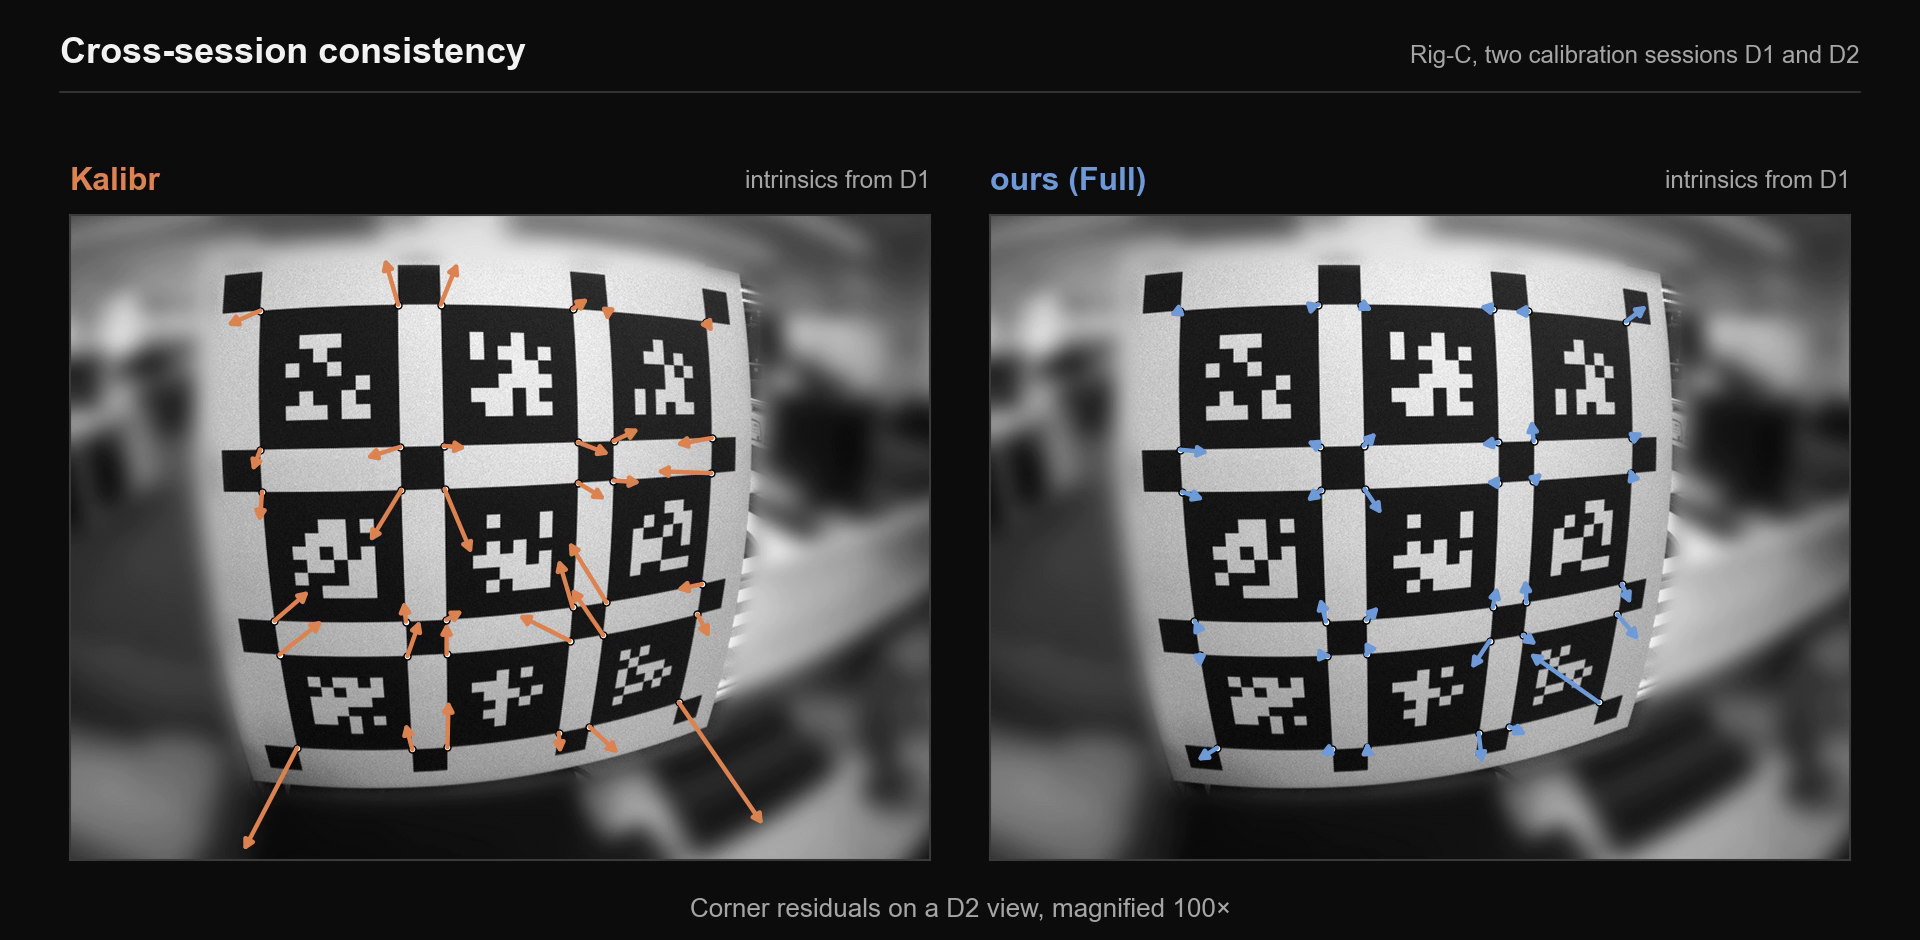
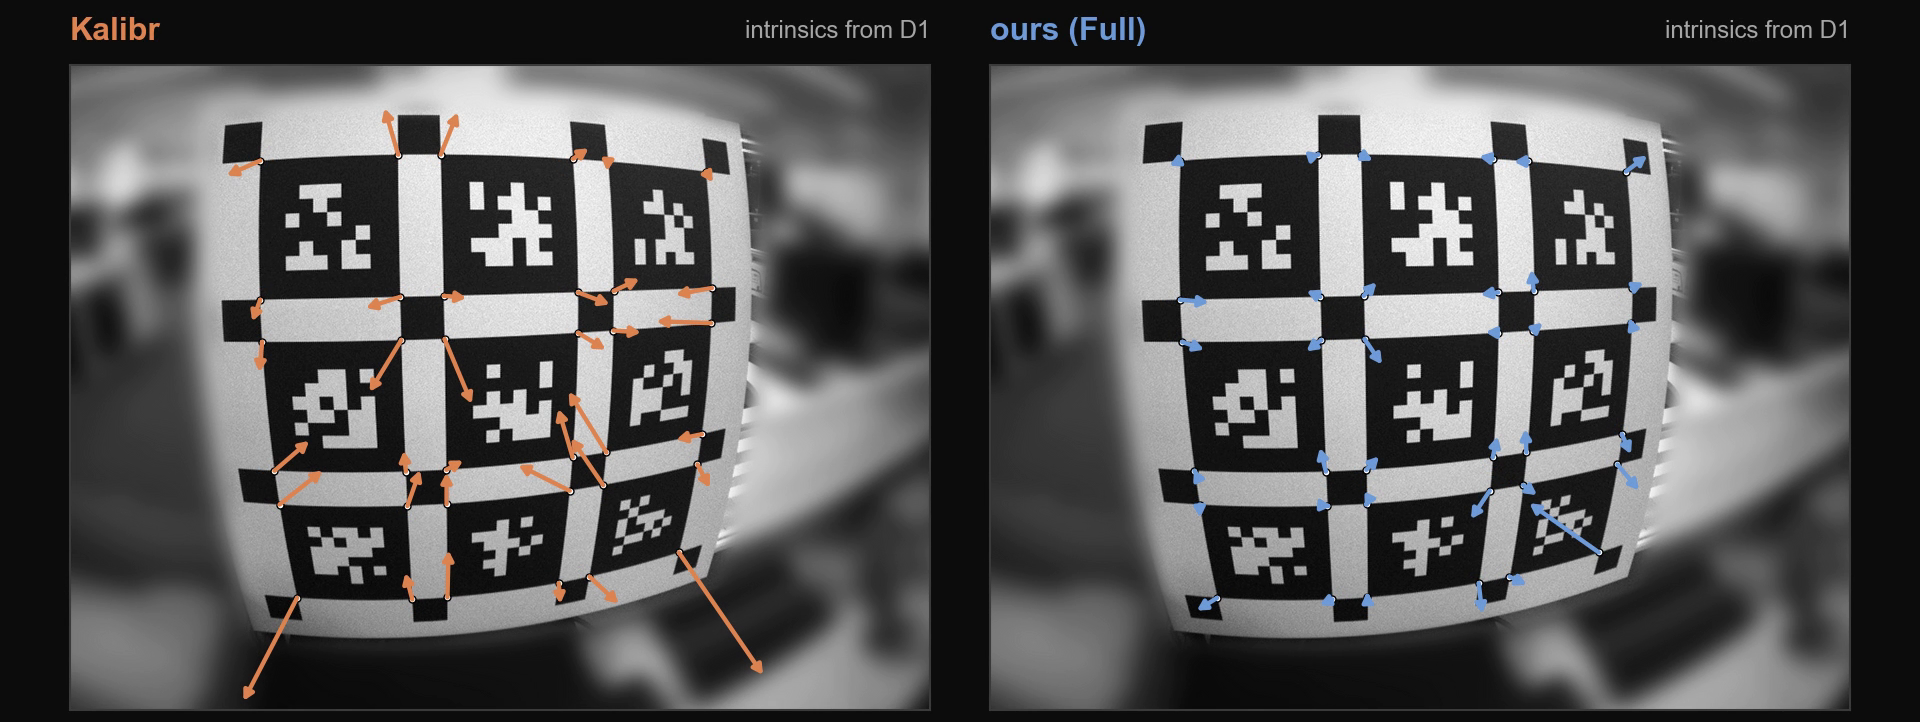
Add a Chinese README and shorten the dataset figure
Add README.zh.md with a language switch in both READMEs. Lay out Fig. 4 as
one row of two columns above its caption, remove the captions from the hero
image and the window title bar from the chessboard GIF.

diff --git a/README.zh.md b/README.zh.md
@@ -1,0 +1,171 @@
+<div align="center">
+
+<h1>Automatic Reproducible Camera Intrinsic Calibration</h1>
+
+<p><a href="https://github.com/JokerJohn"><b>Xiangcheng Hu</b></a></p>
+
+<p><a href="README.md">English</a> | <a href="README.zh.md"><b>中文</b></a></p>
+
+![IntrinsicCalib](./README/hero.png)
+
+<a href="https://arxiv.org/abs/2609.10082"><img src="https://img.shields.io/badge/arXiv-2609.10082-b31b1b" alt="arXiv"></a><a><img src="https://img.shields.io/badge/IEEE%20RA--P-Accepted-green" alt="RA-P"></a><a href="./README/intrinsic_calib_video.mp4"><img src="https://img.shields.io/badge/Video-Paper%20Video-blue" alt="Video"></a><a><img alt="PRs-Welcome" src="https://img.shields.io/badge/PRs-Welcome-white" /></a>[![GitHub Stars](https://img.shields.io/github/stars/JokerJohn/IntrinsicCalib.svg)](https://github.com/JokerJohn/IntrinsicCalib/stargazers)<a href="https://github.com/JokerJohn/IntrinsicCalib/network/members"><img alt="FORK" src="https://img.shields.io/github/forks/JokerJohn/IntrinsicCalib?color=white" /></a>[![GitHub Issues](https://img.shields.io/github/issues/JokerJohn/IntrinsicCalib.svg)](https://github.com/JokerJohn/IntrinsicCalib/issues)[![License](https://img.shields.io/badge/license-MIT-blue.svg)](./LICENSE)
+
+</div>
+
+## 简介
+
+相机内参标定的精度取决于所采集图像的质量，而现有基于标定板的方法通常要求使用者手动筛选高质量图像并指定径向畸变阶数。本文从采集数据中自动确定这两项输入。
+
+**核心思想：两项决策通过残差相互耦合。** 高阶模型会降低用于定义剔除阈值的残差尺度，而标定集残差无法验证新增系数。因此，图像剔除在每个候选阶数下独立执行，畸变阶数则在内参与畸变系数固定的条件下，由留出图像确定。
+
+- **内参标定方法。** 提出一种自动且无需人工干预的方法，迭代地选择高质量图像与畸变阶数，得到准确且可复现的内参。
+- **畸变阶数选择。** 提出一种选择准则，在内参与畸变系数固定的条件下于留出图像上评估各候选阶数，避免以标定集残差判断模型是否充分。
+- **交互式标定工具。** 开发面向棋盘格与 AprilGrid 标定板的开源工具，并在公开数据集和真实机器人上完成验证。
+
+| ![pipeline](./README/pipeline.png) | ![algorithm](./README/algorithm.png) |
+| ------------------------------------------------------------ | ------------------------------------------------------------ |
+
+## 动态
+
+- **2026/11**：论文被 IEEE Robotics and Automation Practice (RA-P) 接收。
+- **2026/10/11**：发布标定工具、数据与实验脚本。
+- **2026/09/09**：论文公开于 [arXiv](https://arxiv.org/abs/2609.10082)。
+
+## 视频
+
+<div align="center">
+
+<a href="./README/intrinsic_calib_video.mp4"><img src="./README/intrinsic_calib_video.gif" width="92%"></a>
+
+</div>
+
+点击图像播放完整视频（92 秒）。
+
+## 方法
+
+**图像选择。** Stage 1 仅接收提取器恢复出完整内角点网格的图像。Stage 2 迭代剔除平均残差超过中位数一定倍数的图像，并重新求解标定：
+
+<div align="center">
+
+$$
+\tau^{(t)} = \kappa\,\tilde{e}^{(t)}, \qquad
+\mathcal{I}^{(t+1)} = \lbrace\, i\in\mathcal{I}^{(t)} \mid \bar{e}_i^{(t)} \le \tau^{(t)} \,\rbrace
+$$
+
+</div>
+
+**畸变阶数选择。** 接收的图像集被划分为估计子集与验证子集 $\mathcal{V}$。各候选阶数在内部执行 Stage 2 完成估计，并在 $\mathcal{V}$ 上仅重新估计标定板位姿。当且仅当平均误差与最差视图误差均未变差时，采用 $\mathrm{M}_3$（在 $\mathrm{M}_2$ 的基础上增加 $k_3$）：
+
+<div align="center">
+
+$$
+\bar{e}_{\mathrm{v}}(\mathrm{M}_3) \le \alpha\,\bar{e}_{\mathrm{v}}(\mathrm{M}_2)
+\quad\text{and}\quad
+e^{\max}_{\mathrm{v}}(\mathrm{M}_3) \le \beta\,e^{\max}_{\mathrm{v}}(\mathrm{M}_2)
+$$
+
+</div>
+
+所有超参数在全部数据集上保持固定：$\kappa=2$，$\alpha=\beta=1$，$N_{\min}=15$，$N_{\mathrm{stop}}=8$，$T_{\max}=3$。
+
+**交互式工具。** 工具显示每幅图像的筛选状态与标定点分布，并记录每项决策。左：棋盘格数据（Rig-A，3 倍速播放）。右：AprilGrid 数据（Rig-C）。
+
+| <img src="./README/gif_tool_chessboard.gif"> | <img src="./README/gif_tool_aprilgrid.gif"> |
+| ------------------------------------------------------------ | ------------------------------------------------------------ |
+
+## 数据集
+
+<div align="center">
+
+| 数据集 | 相机 | 标定板 | 数据 |
+| ------ | ---- | ------ | ---- |
+| `Rig-A` | 1920 x 1080，111° | 棋盘格 11 x 8，45 mm | 39 幅图像 |
+| `Rig-B` | 同型号的第二台相机 | 棋盘格 11 x 8，45 mm | 64 幅图像 |
+| `Rig-C` | 手持双目 FLIR，1440 x 1080，113° | 3 x 3 AprilGrid | 标定会话 D1、D2；序列 S1、S2、S3 |
+| `Rig-D` | 轮式机器人，Rig-A 同型号相机 | 棋盘格 11 x 8，45 mm | 一条 163 秒序列 |
+| `Public` | OpenCalib、ROS、OpenCV | 棋盘格 | 五个会话 |
+
+<img src="./README/datasets.png" width="85%">
+
+</div>
+
+Rig-A 与 Rig-B 位于 `data/`。Rig-C 与 Rig-D 的 bag 可从[百度网盘](https://pan.baidu.com/s/1n3tDlzshlr6OiQmL6GJtyQ?pwd=vihg)下载（提取码 `vihg`），公开数据从其原始来源获取。[docs/DATA.md](./docs/DATA.md) 列出每项实验所用的数据。
+
+## 结果
+
+**图像与阶数选择。** 在 Rig-A 上，两个阶段将留出误差从 0.419 px 降至 0.316 px（25%）。$\mathrm{M}_3$ 进一步将留出均值降至 0.299 px，并将最差视图误差从 0.590 px 降至 0.554 px。
+
+| ![selection](./README/selection.png) | ![order](./README/order.png) |
+| ------------------------------------------------------------ | ------------------------------------------------------------ |
+
+**跨会话一致性。** 在 Rig-C 上，本方法在两台相机上均将 Kalibr 的跨会话误差降低 36% 至 50%。两天之间焦距变化小于 1.5 px，而 Kalibr 约为 7 px。
+
+| <img src="./README/gif_xsession.gif"> | ![tab_rigc](./README/tab_rigc.png) |
+| ------------------------------------------------------------ | ------------------------------------------------------------ |
+
+**公开数据与里程计。** 本方法在全部五个公开会话上取得最低的留出均值。使用 OpenVINS 时，本方法的内参在 Rig-C 的三条序列上均取得最低轨迹误差，并在 Rig-D 上取得最低的中位误差。
+
+| ![tab_public](./README/tab_public.png) | ![tab_vio](./README/tab_vio.png) |
+| ------------------------------------------------------------ | ------------------------------------------------------------ |
+
+## 快速开始
+
+实现基于 Python 3.10、OpenCV 4.13 与 PySide6，已在 Ubuntu 20.04 上测试。
+
+```bash
+git clone https://github.com/JokerJohn/IntrinsicCalib.git && cd IntrinsicCalib
+conda create -n intrinsic_calib python=3.10 && conda activate intrinsic_calib
+pip install -r requirements.txt
+sudo apt install g++ pkg-config libopencv-dev libeigen3-dev   # Kalibr 提取器，首次使用时编译
+
+python tool/run_intrinsics_gui.py data/rig_a                  # 交互式工具：先 Detect All，再 Calibrate
+python experiments/public/experiment/rap_headless.py data/rig_a --out rig_a.json   # 无界面运行
+```
+
+无界面运行的结果为：检测 39 幅，Stage 1 后 27 幅，最终 20 幅，选择 $\mathrm{M}_3$，保留图像上的误差为 0.143 px。[docs/REPRODUCE.md](./docs/REPRODUCE.md)（英文）说明 Python 接口、复现论文各表格的命令与测试。
+
+```
+tool/          标定包 intrinsic_calib 与启动脚本
+experiments/   public（Table I）、rigc（Table II）、vio（Table III）
+data/          Rig-A、Rig-B、Rig-C 的 Kalibr 文件、bag 清单
+tests/         Rig-A 选择、AprilGrid 提取与工具的测试
+```
+
+## 待办
+
+- [x] 发布标定工具与实验脚本
+- [x] 发布 Rig-A 至 Rig-D 数据
+- [ ] 增加有理模型与鱼眼模型候选
+- [ ] 增加覆盖度约束
+- [ ] 支持卷帘快门相机与事件相机
+
+## 引用
+
+```bibtex
+@article{hu2026intrinsiccalib,
+  title         = {Automatic Reproducible Camera Intrinsic Calibration},
+  author        = {Hu, Xiangcheng},
+  journal       = {IEEE Robotics and Automation Practice},
+  note          = {Accepted},
+  eprint        = {2609.10082},
+  archivePrefix = {arXiv},
+  primaryClass  = {cs.RO},
+  year          = {2026}
+}
+```
+
+相关工作：[P²Calib](https://github.com/JokerJohn/P2Calib) 与 [VeriCalib](https://github.com/JokerJohn/VeriCalib)。
+
+## 致谢
+
+工具使用了 [OpenCV](https://github.com/opencv/opencv) 与 [Kalibr](https://github.com/ethz-asl/kalibr) 的 `ethz_apriltag2` 解码器。评估使用了 [OpenCalib](https://github.com/PJLab-ADG/SensorsCalibration)、[ROS camera_calibration](http://wiki.ros.org/camera_calibration)、[mrcal](https://mrcal.secretsauce.net) 与 Kalibr 的数据和基线。里程计实验与真值使用了 [OpenVINS](https://github.com/rpng/open_vins)、[evo](https://github.com/MichaelGrupp/evo)、[FAST-LIO2](https://github.com/hku-mars/FAST_LIO)、[PALoc](https://github.com/JokerJohn/PALoc) 与 [Manual Loop Closure Tools](https://github.com/JokerJohn/Mannual-Loop-Closure-Tools)。
+
+## 许可证
+
+本项目基于 [MIT 许可证](./LICENSE)发布。`tool/intrinsic_calib/kalibr_extractor/third_party/` 包含 `ethz_apriltag2` 源码与 Kalibr 的标定板提取代码（BSD，[KALIBR_LICENSE](tool/intrinsic_calib/kalibr_extractor/third_party/KALIBR_LICENSE)）。公开数据沿用其来源的许可证。
+
+## 贡献者
+
+<a href="https://github.com/JokerJohn/IntrinsicCalib/graphs/contributors">
+  <img src="https://contrib.rocks/image?repo=JokerJohn/IntrinsicCalib" />
+</a>

diff --git a/README.md b/README.md
@@ -4,6 +4,8 @@
 
 <p><a href="https://github.com/JokerJohn"><b>Xiangcheng Hu</b></a></p>
 
+<p><a href="README.md"><b>English</b></a> | <a href="README.zh.md">中文</a></p>
+
 ![IntrinsicCalib](./README/hero.png)
 
 <a href="https://arxiv.org/abs/2609.10082"><img src="https://img.shields.io/badge/arXiv-2609.10082-b31b1b" alt="arXiv"></a><a><img src="https://img.shields.io/badge/IEEE%20RA--P-Accepted-green" alt="RA-P"></a><a href="./README/intrinsic_calib_video.mp4"><img src="https://img.shields.io/badge/Video-Paper%20Video-blue" alt="Video"></a><a><img alt="PRs-Welcome" src="https://img.shields.io/badge/PRs-Welcome-white" /></a>[![GitHub Stars](https://img.shields.io/github/stars/JokerJohn/IntrinsicCalib.svg)](https://github.com/JokerJohn/IntrinsicCalib/stargazers)<a href="https://github.com/JokerJohn/IntrinsicCalib/network/members"><img alt="FORK" src="https://img.shields.io/github/forks/JokerJohn/IntrinsicCalib?color=white" /></a>[![GitHub Issues](https://img.shields.io/github/issues/JokerJohn/IntrinsicCalib.svg)](https://github.com/JokerJohn/IntrinsicCalib/issues)[![License](https://img.shields.io/badge/license-MIT-blue.svg)](./LICENSE)
@@ -83,7 +85,7 @@ All hyper-parameters are fixed across every dataset: $\kappa=2$, $\alpha=\beta=1
 | `Rig-D` | wheeled robot, Rig-A camera model | chessboard 11 x 8, 45 mm | one 163 s sequence |
 | `Public` | OpenCalib, ROS, OpenCV | chessboard | five sessions |
 
-<img src="./README/datasets.png" width="60%">
+<img src="./README/datasets.png" width="85%">
 
 </div>
 
